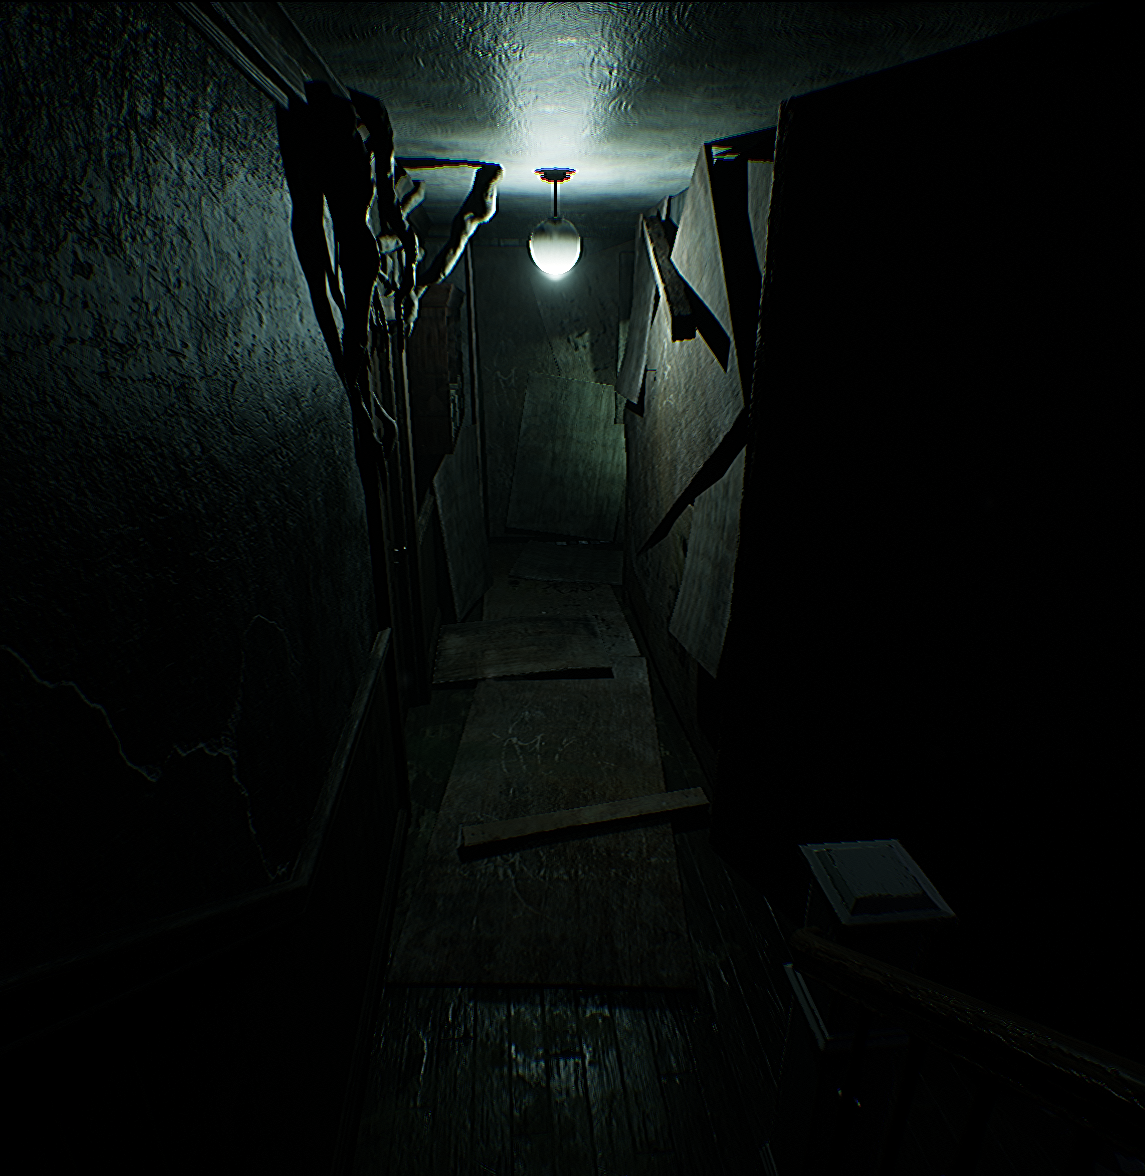
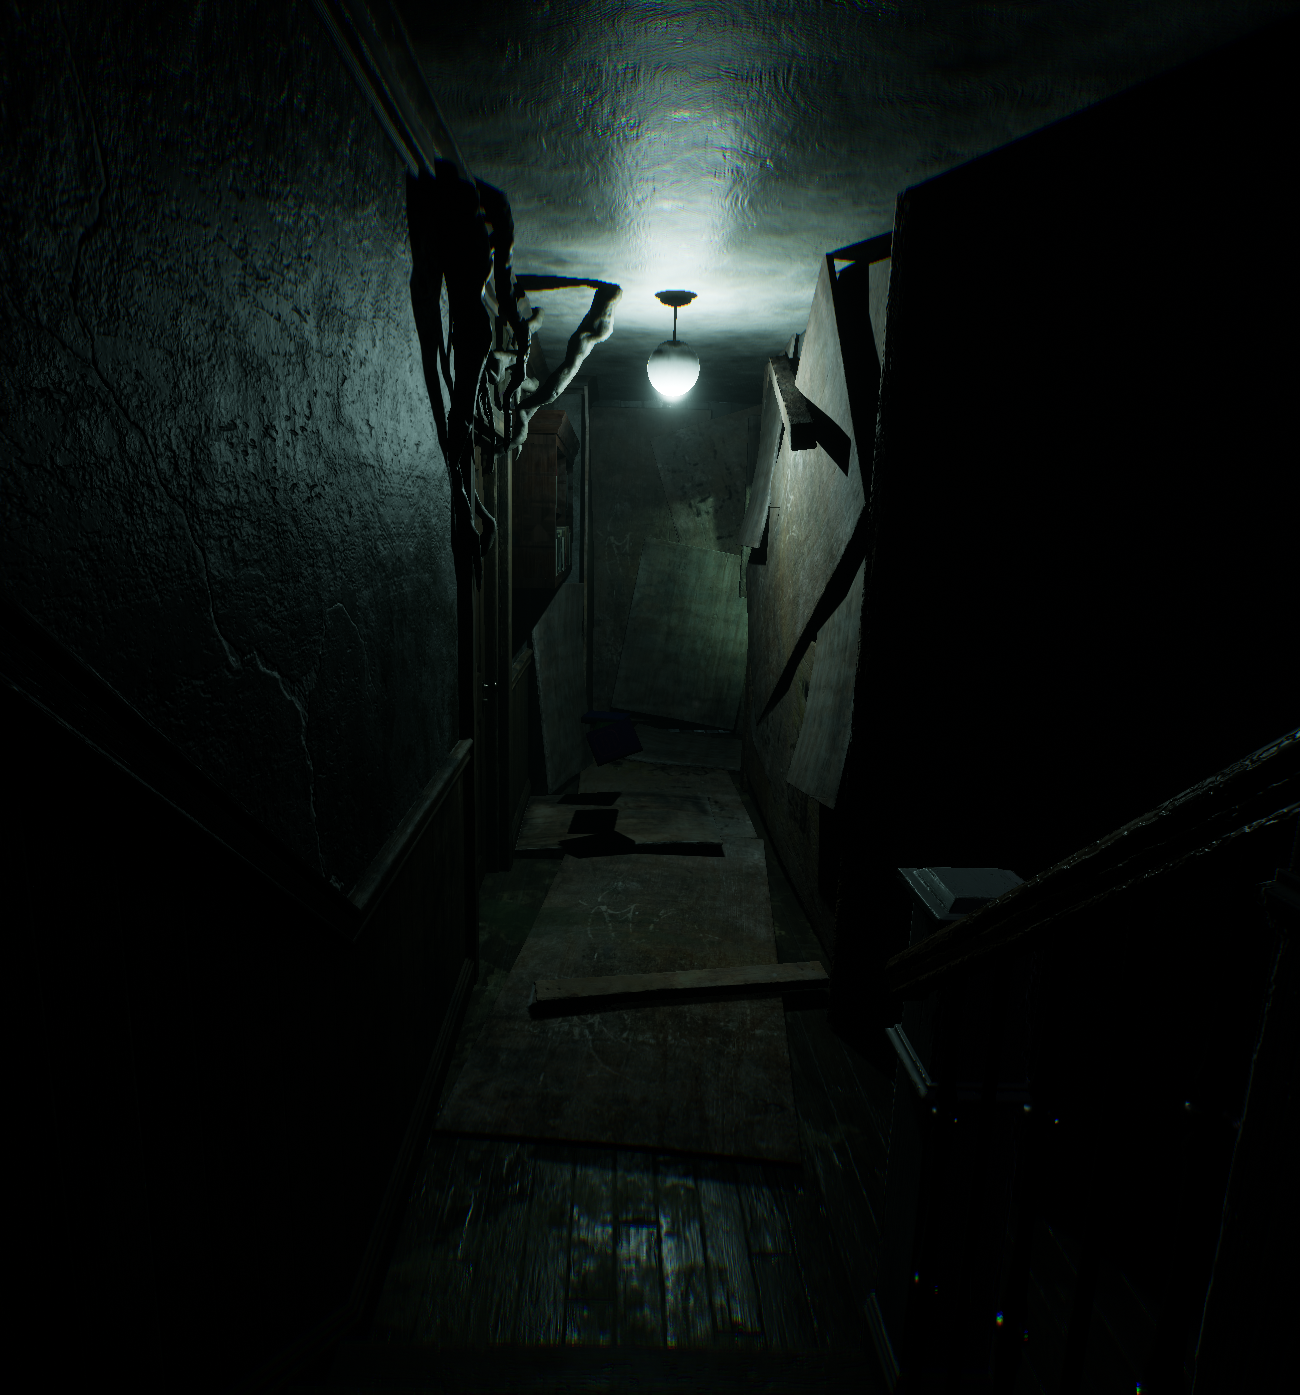
background image adjustment

diff --git a/src/styles/global.css b/src/styles/global.css
@@ -84,8 +84,7 @@ code {
 /* ------- From here starts the mid container & navigation container css ------- */
 .remorses-background {
   background-image: url("/background_picture_mid.png");
-  background-size: contain;
-  background-repeat: no-repeat;
+  background-size: cover;
   /* background-position: right 55% bottom 45%; */
   background-position: center;
   margin-top: 30px;
@@ -359,8 +358,7 @@ a {
   .remorses-background {
     background-image: url("/background_picture_mid.png");
     background-size: cover;
-    background-position: right 58% bottom 65%;
-    background-clip: inherit;
+    background-position: center;
     margin-top: 30px;
   }
 
